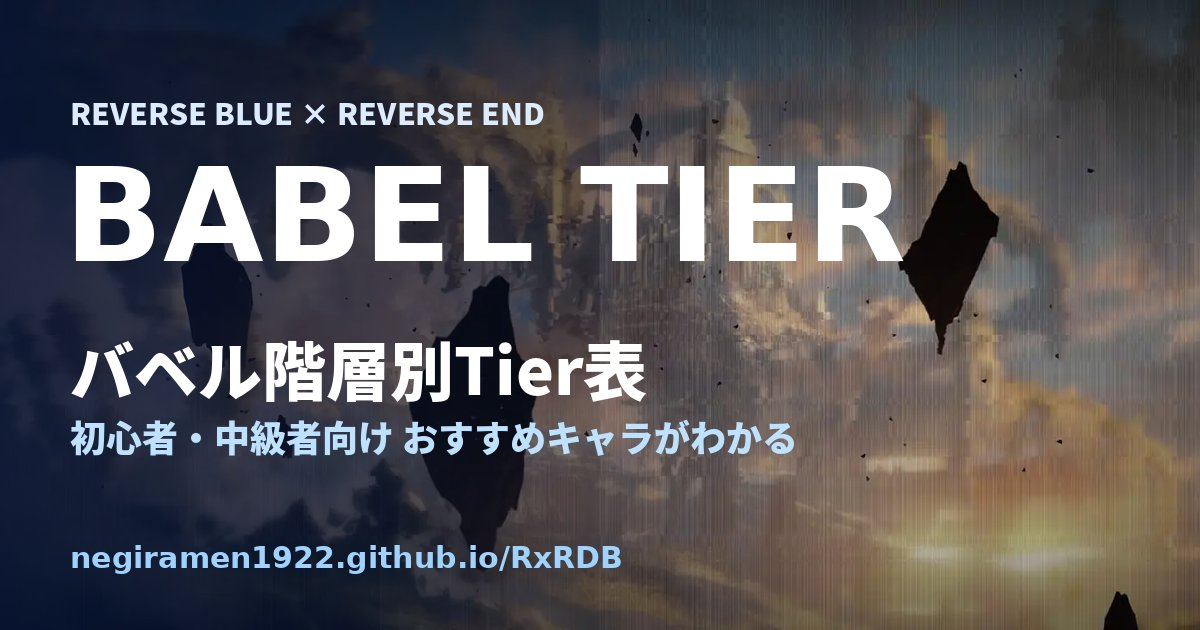
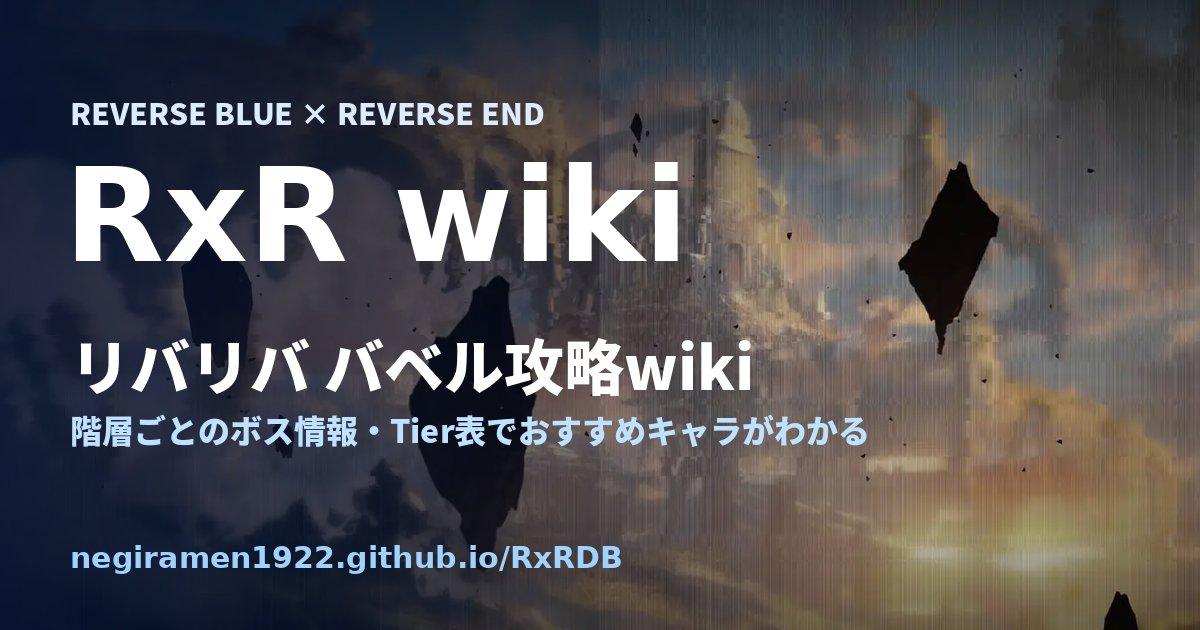
サイト名を RxRwiki（リバリバ バベル攻略wiki）に変更
- タイトル・ヘッダー・OGP画像・共有画像の表記を RxRwiki に
- 最初のタブ名を「バベル攻略」に

Claude-Session: https://claude.ai/code/session_01XNC6rmGy2nV49f8a2WqaHc

Changed region(s): [[0.0617, 0.2413, 0.7708, 0.4222], [0.0617, 0.5429, 0.74, 0.7238]]

diff --git a/index.html b/index.html
@@ -3,11 +3,11 @@
 <head>
 <meta charset="utf-8">
 <meta name="viewport" content="width=device-width, initial-scale=1, viewport-fit=cover">
-<title>バベル Tier表メーカー｜リバリバ</title>
-<meta name="description" content="リバースブルー×リバースエンド（リバリバ）のバベル階層別Tier表。各階層のおすすめキャラやボス情報、キャラ・スクリプトのデータが見られます。">
+<title>RxRwiki｜リバリバ バベル攻略・Tier表</title>
+<meta name="description" content="RxRwiki：リバースブルー×リバースエンド（リバリバ）のバベル攻略wiki。階層別Tier表。各階層のおすすめキャラやボス情報、キャラ・スクリプトのデータが見られます。">
 <meta property="og:type" content="website">
-<meta property="og:title" content="バベル Tier表メーカー｜リバリバ">
-<meta property="og:description" content="リバリバのバベル階層別Tier表。各階層のおすすめキャラがわかる、自分のTier表も作って共有できます。">
+<meta property="og:title" content="RxRwiki｜リバリバ バベル攻略・Tier表">
+<meta property="og:description" content="リバースブルー×リバースエンド（リバリバ）のバベル攻略wiki。階層ごとのボス情報・解析データ・Tier表で、おすすめキャラがわかります。">
 <meta property="og:url" content="https://negiramen1922.github.io/RxRDB/">
 <meta property="og:image" content="https://negiramen1922.github.io/RxRDB/images/og.jpg">
 <meta name="twitter:card" content="summary_large_image">
@@ -453,8 +453,8 @@ tr.rkrow-focus,tr.rkrow-focus td.first{background:rgba(255,201,60,.28)!important
     <div class="brand">
       <div>
         <p class="kicker">REVERSE BLUE × REVERSE END</p>
-        <h1>BABEL<span>TIER</span></h1>
-        <p class="sub">バベル階層別Tier表メーカー</p>
+        <h1>RxR<span>wiki</span></h1>
+        <p class="sub">リバリバ バベル攻略wiki</p>
       </div>
       <div class="acts">
         <button class="btn ghost-dark small" data-news>お知らせ<span class="nbadge2" id="newsCount" hidden></span></button>
@@ -463,7 +463,7 @@ tr.rkrow-focus,tr.rkrow-focus td.first{background:rgba(255,201,60,.28)!important
     </div>
   </div>
   <nav class="tabs" id="userTabs" role="tablist">
-    <button role="tab" data-tab="tier" aria-selected="true">階層別Tier表</button>
+    <button role="tab" data-tab="tier" aria-selected="true">バベル攻略</button>
     <button role="tab" data-tab="sum" aria-selected="false">全階層まとめ</button>
     <button role="tab" data-tab="chars" aria-selected="false">キャラデータ</button>
     <button role="tab" data-tab="babel" aria-selected="false">バベル一覧</button>
@@ -1143,7 +1143,7 @@ async function makeTierImage(f,P,mine){
   const hero=await loadImgEl(HERO);
   if(hero){c.save();c.beginPath();c.rect(0,0,W,HEAD);c.clip();c.globalAlpha=.55;const s=Math.max(W/hero.width,HEAD/hero.height);c.drawImage(hero,(W-hero.width*s)/2,0,hero.width*s,hero.height*s);c.restore();
     g=c.createLinearGradient(0,0,W,0);g.addColorStop(0,"rgba(5,20,55,.92)");g.addColorStop(.7,"rgba(5,20,55,.35)");g.addColorStop(1,"rgba(5,20,55,.1)");c.fillStyle=g;c.fillRect(0,0,W,HEAD);}
-  c.fillStyle="#cfe3ff";c.font=`600 15px ${EN}`;c.fillText("REVERSE BLUE × REVERSE END  /  BABEL TIER",PAD,36);
+  c.fillStyle="#cfe3ff";c.font=`600 15px ${EN}`;c.fillText("REVERSE BLUE × REVERSE END  /  RxRwiki BABEL",PAD,36);
   c.fillStyle="#fff";c.font=`900 40px ${JP}`;c.fillText(`${f.type}  ${f.floor}F`,PAD,86);
   c.font=`700 26px ${JP}`;c.fillText(f.boss||"",PAD,124);
   // badge
@@ -1168,7 +1168,7 @@ async function makeTierImage(f,P,mine){
     y+=h+6;});
   // footer
   y=H-FOOT;g=c.createLinearGradient(0,y,0,H);g.addColorStop(0,"rgba(5,20,55,.0)");g.addColorStop(.35,"rgba(5,20,55,.85)");g.addColorStop(1,"rgba(5,20,55,.95)");c.fillStyle=g;c.fillRect(0,y,W,FOOT);
-  c.fillStyle="#fff";c.font=`900 22px ${JP}`;c.fillText("バベル Tier表メーカー｜リバリバ",PAD,H-38);
+  c.fillStyle="#fff";c.font=`900 22px ${JP}`;c.fillText("RxRwiki｜リバリバ バベル攻略",PAD,H-38);
   c.fillStyle="#9fd2ff";c.font=`600 20px ${EN}`;c.fillText(SITE_URL.replace(/^https?:\/\//,""),PAD,H-12);
   c.fillStyle="#cfe3ff";c.font=`500 15px ${JP}`;const d=new Date();const ds=`${d.getFullYear()}/${d.getMonth()+1}/${d.getDate()}`;c.fillText(ds,W-PAD-c.measureText(ds).width,H-14);
   return new Promise(r=>cv.toBlob(r,"image/png"));
@@ -1193,7 +1193,7 @@ async function openShare(){
 }
 document.getElementById("dlgShare").addEventListener("click",async e=>{
   const b=e.target.closest("[data-share]");if(!b)return;const k=b.dataset.share;track("share",{method:k});
-  if(k==="native"){try{await navigator.share({files:[new File([SHARE.blob],SHARE.name,{type:"image/png"})],text:SHARE.text+"\n"+SHARE.link,title:"バベル Tier表"});}catch(er){}return;}
+  if(k==="native"){try{await navigator.share({files:[new File([SHARE.blob],SHARE.name,{type:"image/png"})],text:SHARE.text+"\n"+SHARE.link,title:"RxRwiki バベルTier表"});}catch(er){}return;}
   if(k==="x"){window.open(`https://x.com/intent/post?text=${encodeURIComponent(SHARE.text)}&url=${encodeURIComponent(SHARE.link)}`,"_blank","noopener");return;}
   if(k==="save"){const a=document.createElement("a");a.href=SHARE.url;a.download=SHARE.name;document.body.appendChild(a);a.click();a.remove();return;}
   if(k==="copyimg"){try{await navigator.clipboard.write([new ClipboardItem({"image/png":SHARE.blob})]);toast("画像をコピーしました。投稿欄に貼り付けられます");}catch(er){toast("コピーできませんでした。「画像を保存」を使ってください");}return;}
@@ -1245,7 +1245,7 @@ const dlgF=document.getElementById("dlgFeedback");
 document.querySelectorAll("[data-feedback]").forEach(b=>b.addEventListener("click",ev=>{ev.preventDefault();
   document.getElementById("fbText").value="";document.getElementById("fbContact").value="";document.getElementById("fbErr").textContent="";
   document.getElementById("fbPage").textContent=feedbackPage();dlgF.showModal();}));
-function feedbackPage(){const f=curFloor();const t={tier:"階層別Tier表",sum:"全階層まとめ",chars:"キャラデータ",babel:"バベル一覧",scripts:"スクリプト",rank:"ランキング"}[tab]||tab;return t+(tab==="tier"&&f?`（${f.type} ${f.floor}F）`:"");}
+function feedbackPage(){const f=curFloor();const t={tier:"バベル攻略",sum:"全階層まとめ",chars:"キャラデータ",babel:"バベル一覧",scripts:"スクリプト",rank:"ランキング"}[tab]||tab;return t+(tab==="tier"&&f?`（${f.type} ${f.floor}F）`:"");}
 document.getElementById("fbSend").addEventListener("click",async e=>{
   const text=document.getElementById("fbText").value.trim(),contact=document.getElementById("fbContact").value.trim(),kind=document.querySelector('input[name="fbKind"]:checked').value;
   const err=document.getElementById("fbErr");

diff --git a/CLAUDE.md b/CLAUDE.md
@@ -1,4 +1,4 @@
-# RxRDB（バベル Tier表メーカー 公開サイト）
+# RxRwiki（リポジトリ RxRDB。リバリバ バベル攻略wiki 公開サイト）
 
 リバースブルー×リバースエンドのバベル階層別Tier表サイト。GitHub Pages（main ブランチ / ルート）で公開。ビルド不要の静的サイト。
 

diff --git a/README.md b/README.md
@@ -1,4 +1,4 @@
-# RxRDB — バベル Tier表メーカー
+# RxRwiki — リバリバ バベル攻略wiki
 
 リバースブルー×リバースエンドのエンドコンテンツ「バベル」の階層別Tier表サイトです。
 
